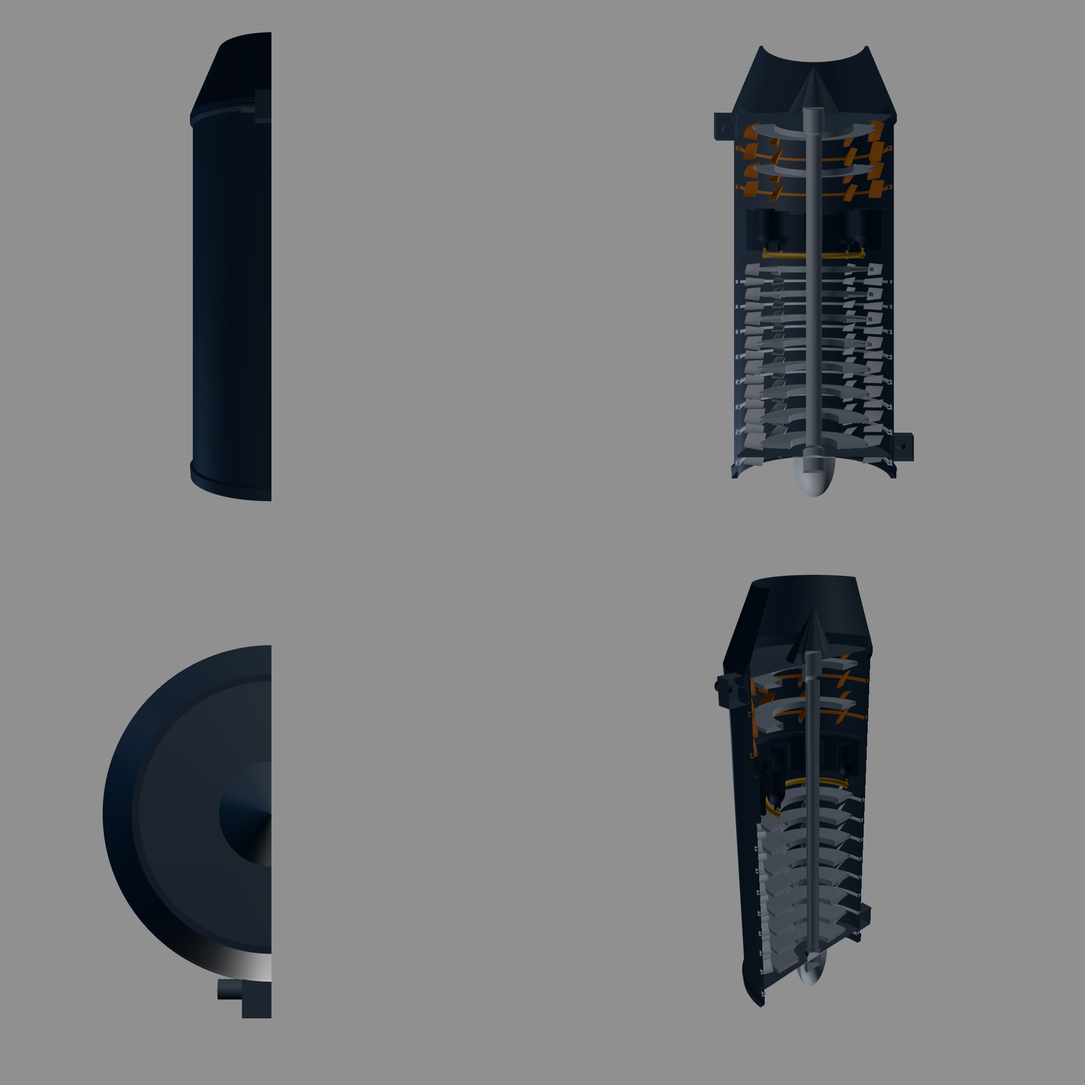
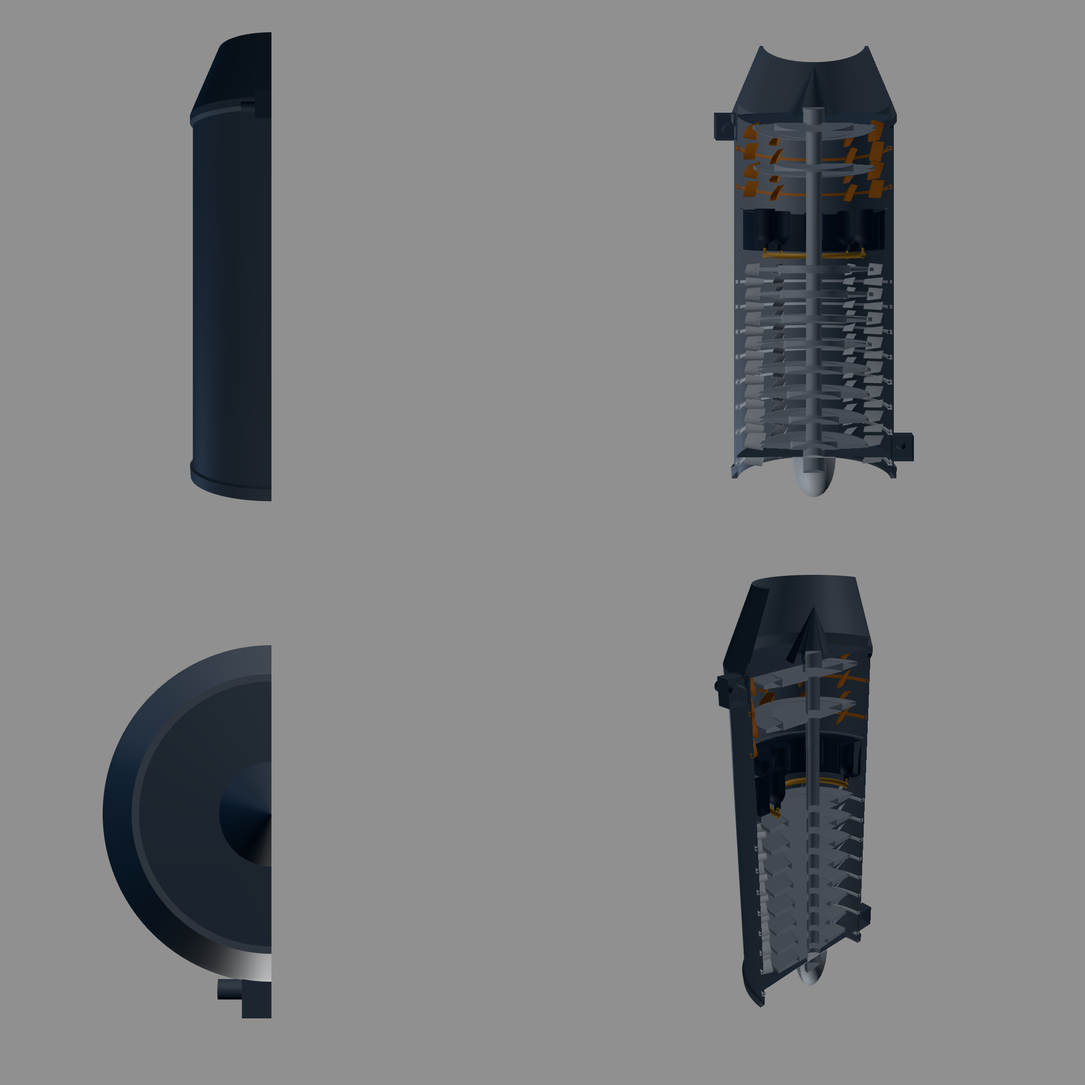
fix(examples): connect the turbojet mechanism; refresh evidence
Mechanism-truth criterion 7 flagged 30 joint-mesh gaps: discs floated on the
plain shaft and the combustor internals were 5-47 mm off the casing. Adds a
stepped display drum (collars line-to-line with each disc bore, chosen over a
2 mm embed to stay inside the 20 mm3 clash cap), re-parents the blade,
combustor and mount mates onto the bodies they actually seat in, and grows
the combustor radii into a touching chain. validate --include-interference is
now clean (42 parts, 41 joints, mechanism real, 0 failures, interference 0
pairs). Cutaway/section renders refreshed; hero is unchanged (exterior).

diff --git a/examples/gallery/turbojet-engine.kcad.ts b/examples/gallery/turbojet-engine.kcad.ts
@@ -276,24 +276,44 @@ const lowerHalf = casingShell.subtract(casingCutLower);   // keeps y < 0
 const upperHalf = casingShell.subtract(casingCutUpper);   // keeps y > 0
 const casingHalves = [lowerHalf, upperHalf];
 
-// Shaft: Ø44 main journal, Ø60 lands at the two bearing stations. Display
-// simplification: the compressor disc bores are r65..r100 (Task 9), so the
-// main journal passes each disc with 43..78 mm of radial clearance instead of
-// a spacer drum; the lands are the only shaft contact with the static
-// structure (≈1 mm radial play in the bearing bores).
+// Stepped spool drum: Ø44 main journal + Ø60 lands at the two bearing
+// stations, with a collar under every rotor disc. Each collar is sized
+// line-to-line with its disc bore (compressor r65..r100 from the Task 9
+// table, turbine r110 from Task 11) and spans the 18 mm web with 2 mm of
+// margin each side, so each disc rides on shaft material instead of the
+// journal passing it in open air. A literal 2 mm radial shrink fit would
+// share ≈15,000-25,000 mm³ with each disc (ten pairs over the 20 mm³ clash
+// cap); the display fit is line-to-line — zero clearance and zero shared
+// volume — which still registers as material contact in the joint-mesh
+// probe. The collars stay well inside the r150 stator vane tips and leave
+// the nose-cone/exhaust-cone interfaces unchanged.
 const SHAFT_MAIN_R = 22;         // Ø44 main journal
 const SHAFT_LAND_R = 30;         // Ø60 bearing lands
 const SHAFT_FRONT_Z = -545;      // nose end, buried in the spinner
 const SHAFT_REAR_Z = 470;        // rear end, inside the casing aft bore
-const SHAFT_STEP_T = 8;          // land-to-journal axial blend
 const SHAFT_FRONT_LAND_Z = -482; // front land ends at the R1 disc front face
-const SHAFT_REAR_LAND_Z = 404;   // rear land starts aft of the T2 disc hub (Task 11)
-const shaftShape = path()
+const SHAFT_REAR_LAND_Z = 426;   // rear land starts at the T2 collar aft shoulder
+const DRUM_COLLAR_T = 22;        // collar axial length: 18 mm web + 2 mm margin each side
+const drumCollars: Array<{ z: number; r: number }> = [
+  ...rotorStages.map((stage) => ({ z: stage.z, r: stage.hubR })),
+  { z: 303, r: 110 },            // T1 disc bore (Task 11 table)
+  { z: 415, r: 110 },            // T2 disc bore (Task 11 table)
+];
+let shaftPen = path()
   .moveTo(0, SHAFT_FRONT_Z)
   .lineTo(SHAFT_LAND_R, SHAFT_FRONT_Z)
   .lineTo(SHAFT_LAND_R, SHAFT_FRONT_LAND_Z)
-  .lineTo(SHAFT_MAIN_R, SHAFT_FRONT_LAND_Z + SHAFT_STEP_T)
-  .lineTo(SHAFT_MAIN_R, SHAFT_REAR_LAND_Z - SHAFT_STEP_T)
+  .lineTo(SHAFT_MAIN_R, SHAFT_FRONT_LAND_Z);
+for (const collar of drumCollars) {
+  const z0 = collar.z - DRUM_COLLAR_T / 2;
+  const z1 = collar.z + DRUM_COLLAR_T / 2;
+  shaftPen = shaftPen
+    .lineTo(SHAFT_MAIN_R, z0)
+    .lineTo(collar.r, z0)
+    .lineTo(collar.r, z1)
+    .lineTo(SHAFT_MAIN_R, z1);
+}
+const shaftShape = shaftPen
   .lineTo(SHAFT_LAND_R, SHAFT_REAR_LAND_Z)
   .lineTo(SHAFT_LAND_R, SHAFT_REAR_Z)
   .lineTo(0, SHAFT_REAR_Z)
@@ -454,16 +474,29 @@ for (const stage of hotTurbineStages) {
 }
 
 // Can-annular combustor, all inside the 211 barrel bore: outer casing shell,
-// liner shell, then 8 cans on a 136 mm circle inside the liner (Ø56 body ->
-// 164 mm outer edge, 14 mm clear of the 178 liner bore and 48 mm apart
-// tangentially). The cans sit forward of the NGV1 vane leading edge (226.2)
-// and aft of the R8 blade trailing edge (~38 at these radii).
-const COMBUSTOR_CASING_BORE_R = 196;   // 15 mm inside the barrel bore
-const COMBUSTOR_CASING_R = 206;        // 10 mm wall; 5 mm to the barrel bore
+// liner shell, then 8 cans on a 136 mm circle inside the liner. The shells
+// form a line-to-line touching chain — outer casing outer = the 211 barrel
+// bore, liner outer = the 196 outer casing bore, can outer edge
+// (136 + 28 = 164) = the liner bore — so every combustor mate partner is
+// material-connected. (A 1 mm radial embed would share 100,000+ mm³ with the
+// barrel; the display fit is zero-clearance, zero shared volume.) The cans
+// still sit forward of the NGV1 vane leading edge (226.2) and aft of the R8
+// blade trailing edge (~38 at these radii).
+const CAN_COUNT = 8;
+const CANS_R = 136;                // can centreline radius
+const CAN_BODY_R = 28;             // Ø56 body: 108..164 radial
+const CAN_BODY_FRONT_Z = 118;
+const CAN_BODY_AFT_Z = 188;
+const CAN_SNOUT_R = 10;
+const CAN_SNOUT_FRONT_Z = 75;
+const CAN_SNOUT_AFT_Z = 95;        // 5 mm buried in the dome
+
+const COMBUSTOR_CASING_BORE_R = 196;   // outer casing bore = liner outer (line-to-line)
+const COMBUSTOR_CASING_R = CASING_BORE_R; // 211: outer touches the barrel bore
 const COMBUSTOR_CASING_FRONT_Z = 58;
 const COMBUSTOR_CASING_AFT_Z = 190;    // 36.2 mm forward of the NGV1 vane LE
-const COMBUSTOR_LINER_BORE_R = 178;
-const COMBUSTOR_LINER_R = 188;         // 10 mm wall; 8 mm to the casing bore
+const COMBUSTOR_LINER_BORE_R = CANS_R + CAN_BODY_R; // 164 = can outer edge
+const COMBUSTOR_LINER_R = COMBUSTOR_CASING_BORE_R;  // 196: liner outer touches the casing bore
 const COMBUSTOR_LINER_FRONT_Z = 75;
 const COMBUSTOR_LINER_AFT_Z = 186;
 function shell(boreR: number, outR: number, zFront: number, zAft: number) {
@@ -480,15 +513,6 @@ const combustorLiner = shell(
   COMBUSTOR_LINER_BORE_R, COMBUSTOR_LINER_R,
   COMBUSTOR_LINER_FRONT_Z, COMBUSTOR_LINER_AFT_Z,
 ).color(COLOR_COMBUSTOR);
-
-const CAN_COUNT = 8;
-const CANS_R = 136;                // can centreline radius
-const CAN_BODY_R = 28;             // Ø56 body: 108..164 radial, 14 mm to the liner bore
-const CAN_BODY_FRONT_Z = 118;
-const CAN_BODY_AFT_Z = 188;
-const CAN_SNOUT_R = 10;
-const CAN_SNOUT_FRONT_Z = 75;
-const CAN_SNOUT_AFT_Z = 95;        // 5 mm buried in the dome
 const canBody = cylinder(CAN_BODY_AFT_Z - CAN_BODY_FRONT_Z, CAN_BODY_R)
   .translate(CANS_R, 0, CAN_BODY_FRONT_Z).color(COLOR_COMBUSTOR);
 const canDome = sphere(CAN_BODY_R)
@@ -577,7 +601,7 @@ const engine = assembly('kernelCAD v0.17 turbojet');
 // connectors sit at the shared world origin — the fastened zero pose is the
 // authored pose.
 function frameConnector(origin: [number, number, number]) {
-  return { type: 'frame', origin: { kind: 'vec3', value: origin } };
+  return { type: 'frame' as const, origin: { kind: 'vec3' as const, value: origin } };
 }
 let fastenSeq = 0;
 type PartRef = ReturnType<typeof engine.part>;
@@ -601,7 +625,7 @@ const [bearingFront, bearingRear] = bearingHousings;
 
 // Ground: lower casing half + its half of the convergent nozzle.
 const ground = engine.part('casing-lower-half', casingLower.union(nozzleLower));
-fixed(ground, 'casing-upper-half', casingUpper.union(nozzleUpper));
+const casingUpperPart = fixed(ground, 'casing-upper-half', casingUpper.union(nozzleUpper));
 
 // Merged static vane units: `row.union(band)` keeps the row as the boolean
 // base, so lookupSourceColor resolves the part to the row's color — alloy for
@@ -617,16 +641,21 @@ for (let i = 1; i < statorRings.length; i++) {
 fixed(ground, 'ngv-1', ngvRows[0].union(ngvBands[0]));
 fixed(ground, 'ngv-2', ngvRows[1].union(ngvBands[1]));
 
-// Remaining static parts, all fastened to the ground half.
+// Remaining static parts, fastened to the half/neighbour they actually
+// touch. Task 10 staging array mounts = [front crown (+y), rear crown (-y)]:
+// the front mount embeds in the upper half's barrel, so it hangs off
+// casing-upper-half, not the ground lower half.
 fixed(ground, 'bearing-front', bearingFront);
 fixed(ground, 'bearing-rear', bearingRear.union(exhaustCone)); // Task 12 merge 2
-// Task 10 staging array mounts = [front crown (+y), rear crown (-y)].
-fixed(ground, 'mount-front', mounts[0]);
+fixed(casingUpperPart, 'mount-front', mounts[0]);
 fixed(ground, 'mount-rear', mounts[1]);
-fixed(ground, 'combustor-outer', combustorOuterCasing);
-fixed(ground, 'combustor-liner', combustorLiner);
-fixed(ground, 'combustor-cans', combustorCans);
-fixed(ground, 'fuel-manifold', fuelManifold);
+// Combustor chain: outer casing rides the barrel bore, liner rides the outer
+// casing bore, cans ride the liner bore, manifold is buried in the can
+// snouts — each mate partner is material-connected (line-to-line contacts).
+const combustorOuterPart = fixed(ground, 'combustor-outer', combustorOuterCasing);
+const combustorLinerPart = fixed(combustorOuterPart, 'combustor-liner', combustorLiner);
+const combustorCansPart = fixed(combustorLinerPart, 'combustor-cans', combustorCans);
+fixed(combustorCansPart, 'fuel-manifold', fuelManifold);
 
 // The single revolute: casing lower half <-> shaft on the engine axis (world
 // origin, +Z). `concealed` because the spool bearing lives inside the
@@ -647,16 +676,18 @@ engine.mate('spool', 'casing-lower-half.spool-axis', 'shaft.spool-axis', 'revolu
   exposure: 'concealed',
 });
 
-// Rotor stack, all fastened to the shaft.
+// Rotor stack. Discs are fastened to the shaft (each rides its drum collar);
+// blade rows are fastened to the disc they root into, not to the shaft —
+// the root embed is the real joint, and the shaft never reaches blade radii.
 fixed(shaft, 'nose-cone', noseCone);
 for (let i = 0; i < rotorDiscs.length; i++) {
-  fixed(shaft, `compressor-disc-${i + 1}`, rotorDiscs[i]);
-  fixed(shaft, `compressor-blades-${i + 1}`, rotorRows[i]);
+  const discPart = fixed(shaft, `compressor-disc-${i + 1}`, rotorDiscs[i]);
+  fixed(discPart, `compressor-blades-${i + 1}`, rotorRows[i]);
 }
-fixed(shaft, 'turbine-disc-1', turbineDiscs[0]);
-fixed(shaft, 'turbine-disc-2', turbineDiscs[1]);
-fixed(shaft, 'turbine-blade-1', turbineRows[0]);
-fixed(shaft, 'turbine-blade-2', turbineRows[1]);
+const turbineDisc1 = fixed(shaft, 'turbine-disc-1', turbineDiscs[0]);
+const turbineDisc2 = fixed(shaft, 'turbine-disc-2', turbineDiscs[1]);
+fixed(turbineDisc1, 'turbine-blade-1', turbineRows[0]);
+fixed(turbineDisc2, 'turbine-blade-2', turbineRows[1]);
 
 // Intended contacts (the Task 13 table): design-intent embeds whose shared
 // volume exceeds the 20 mm^3 clash cap. `ignore` silences only the validator
@@ -668,6 +699,9 @@ fixed(shaft, 'turbine-blade-2', turbineRows[1]);
 //   - rotor blade roots embed 2 mm into their disc rims;
 //   - the spinner base swallows the shaft nose;
 //   - injector lines bury 5 mm into the can snouts.
+// The stepped-drum/disc and combustor-chain contacts are line-to-line (zero
+// shared volume), so they need no ignore entry and stay visible to the raw
+// detector.
 const casingBoreParts = [...statorUnitNames, 'ngv-1', 'ngv-2', 'bearing-front', 'bearing-rear'];
 const intendedContacts: Array<readonly [string, string]> = [
   ...casingBoreParts.flatMap((name): Array<readonly [string, string]> => [

diff --git a/examples/gallery/turbojet-engine/README.md b/examples/gallery/turbojet-engine/README.md
@@ -20,20 +20,27 @@ node dist/cli/index.js evaluate examples/gallery/turbojet-engine.kcad.ts
 node dist/cli/index.js validate examples/gallery/turbojet-engine.kcad.ts
 node dist/cli/index.js interference examples/gallery/turbojet-engine.kcad.ts --epsilon 20
 
+# Typecheck the model scripts (wrapper typechecker — gap #8)
+npm run typecheck:examples        # gates the v0.17 files
+npm run typecheck:examples:all    # full examples tree; legacy backlog is non-zero (gap #8)
+
 # Renders (need a studio dev server on 127.0.0.1:5173: `npm run dev`)
 node dist/cli/index.js render examples/gallery/turbojet-engine.kcad.ts -o hero.png --no-watermark
 node dist/cli/index.js render examples/gallery/turbojet-engine.kcad.ts --hide casing-upper-half -o cutaway.png --no-watermark
 node dist/cli/index.js render examples/gallery/turbojet-engine.kcad.ts --section x=0 -o section.png --no-watermark
 
-# Exports (8 GB heap: the default 2 GB OOMs)
-NODE_OPTIONS=--max-old-space-size=8192 node dist/cli/index.js parts examples/gallery/turbojet-engine.kcad.ts --json
-NODE_OPTIONS=--max-old-space-size=8192 node dist/cli/index.js export step examples/gallery/turbojet-engine.kcad.ts -o turbojet.step
-NODE_OPTIONS=--max-old-space-size=8192 node dist/cli/index.js export stl  examples/gallery/turbojet-engine.kcad.ts -o turbojet.stl
-NODE_OPTIONS=--max-old-space-size=8192 node dist/cli/index.js export glb  examples/gallery/turbojet-engine.kcad.ts -o turbojet.glb
+# Exports (mesh-heavy commands re-exec with an 8 GB heap automatically when
+# the default heap is too small; no NODE_OPTIONS needed — gap #11)
+node dist/cli/index.js parts examples/gallery/turbojet-engine.kcad.ts --json
+node dist/cli/index.js export step examples/gallery/turbojet-engine.kcad.ts -o turbojet.step
+node dist/cli/index.js export stl  examples/gallery/turbojet-engine.kcad.ts -o turbojet.stl
+node dist/cli/index.js export glb  examples/gallery/turbojet-engine.kcad.ts -o turbojet.glb
 ```
 
 The `inspect`, `cutaway`, `section` renders in this directory are the visual
-evidence for the v0.17 release notes.
+evidence for the v0.17 release notes, but they predate the mechanism fix
+(shaft drum + combustor chain) and need a re-capture — see the post-merge
+status below.
 
 ## Envelope and scale
 
@@ -45,7 +52,7 @@ evidence for the v0.17 release notes.
 | Mount trunnions | y ±277 (beyond the flange envelope, as on a real engine) |
 | Casing barrel | bore r211, outer r222, wall taper to r213 at the inlet lip |
 | Part count | **42** (mechanism budget `(1+3+3) × 42 = 294 ≤ 300`) |
-| Joints | one `revolute` (spool, axis +Z, ±180°), 41 `fastened` mates |
+| Joints | one `revolute` (spool, axis +Z, ±180°), 40 `fastened` mates (41 joints) |
 
 ## Stage table (locked with Task 7 evidence)
 
@@ -82,8 +89,14 @@ vanes). Rotor tips stop at r205, leaving 6 mm to the r211 casing bore.
    by the solved pose; the shipped default is the static exhibit pose.
 4. **Hand-modeled bearings**, not vendor parts: annular housings with 1 mm
    radial play on Ø60 shaft lands. Catalog bearings are a future improvement.
-5. **No spacer drum**: the Ø44 main journal passes the r65–r100 disc bores
-   with 43–78 mm radial clearance (a display simplification over a real spool).
+5. **Stepped display drum, line-to-line fit**: every rotor disc bore
+   (compressor r65–r100, turbine r110) rides a shaft collar that spans the
+   18 mm web with 2 mm margin each side, so the spool has material contact
+   instead of the journal passing the discs in open air. The collars are
+   sized line-to-line with the bores: a literal 2 mm radial shrink fit would
+   share ≈15,000–25,000 mm³ with each disc and add ten pairs over the 20 mm³
+   clash cap, so the display fit is zero-clearance / zero-shared-volume
+   (gap #23).
 6. **Three merges to fit the 42-part budget**: each casing half includes its
    half of the convergent nozzle (both casing color); the exhaust cone is
    merged into the rear bearing housing (both dark steel); each stator band and
@@ -105,6 +118,10 @@ contacts are design intent and are listed here with their reason:
 | shaft × nose-cone | 1 | spinner base swallows the shaft nose |
 | combustor-cans × fuel-manifold | 1 | injector lines bury 5 mm into the can snouts |
 
+The mechanism fix added line-to-line contacts (drum collars ↔ disc bores,
+combustor chain ↔ casing barrel). They share zero volume, so the ignore list
+stays at 38 pairs and the raw detector still sees them (gap #23).
+
 `interference --epsilon 20` (with these pairs `--ignore`d) reports
 **0 interfering pairs across 99 bbox-pruned comparisons**.
 
@@ -112,10 +129,11 @@ contacts are design intent and are listed here with their reason:
 
 | Gate | Result |
 |---|---|
-| `evaluate` (final assembly) | 276 features, `OK`, **587 s** (passes at 237–393 s on a lighter machine load) |
-| `validate` | clean, 42 parts (mate-vocabulary assemblies report 0 joints — see gap log) |
-| `interference --epsilon 20` | 0 pairs / 99 comparisons |
-| `parts --json` (8 GB heap) | 42 parts, **2,916,402 triangles** total; largest: compressor-blades-8 171,564 |
+| `evaluate` (final assembly) | 276 features, `OK`, **587 s** (passes at 237–393 s on a lighter machine load; 198 s after the mechanism fix) |
+| `validate` | clean, 42 parts, 41 joints, 0 diagnostics (gap #12) |
+| `validate --include-interference --no-include-physics` | mechanism **real**, 0 `mechanism.joint-mesh-gap` failures, 0 interference pairs, 0 diagnostics (gap #23) |
+| `interference --epsilon 20` (38 intended contacts ignored) | 0 pairs / 99 comparisons |
+| `parts --json` (CLI auto-bumps to 8 GB heap) | 42 parts, **2,916,402 triangles** total; largest: compressor-blades-8 171,564 |
 | `export step` | 11.2 MB, 173 s |
 | `export stl` (watertight verify on) | 78.4 MB, 3625 s, peak RSS 6.3 GB |
 | `export glb` | 66.0 MB, 333 s |
@@ -153,10 +171,22 @@ tree: **#5** variableSweep intermediate stations (spine subdivision; t is the
 normalized curve parameter), **#6** spline-only revolve profiles, **#17**
 loft null tolerance, **#18** `twistAngle` on rect/circle/polygon/rounded-rect
 extrudes, **#19** rail-loft NURBS section `origin`, **#22** non-finite
-rotation guard. Remaining deferred entries are environmental/scale limits
-(render-inspect, validate-interference, heap, local imports, tsconfig
-coverage, jointCount display, lighting, spline pen contract). The demo capture
-is complete (cutaway, see the Demo section above).
+rotation guard. The two scale limits (**#9** render-inspect, **#10**
+validate-interference) were then made tractable on the merged tree: the
+`validate` interference path now lowers once, honors the model's `ignore`
+list, and re-poses one lowered scene across the mechanism sweep; `render
+inspect` gained `--views` batching and a capped mask render. Remaining
+deferred entries are local imports, the legacy-example typecheck backlog
+behind gap #8, jointCount display, lighting, and the spline pen contract. The
+mechanism-truth gap that remained after #10 — the display model's floating
+disc/combustor mates tripping
+`mechanism.joint-mesh-gap` — is closed by the stepped drum and touching
+combustor chain (gap #23): `validate --include-interference
+--no-include-physics` now reports mechanism `real` with 0 failures and 0
+interference pairs. The demo capture is complete (cutaway, see the Demo
+section above), but **the renders and the demo predate the mechanism fix and
+need a re-capture** (the shaft drum and combustor chain changed the
+geometry); the controller handles that refresh.
 
 ## Gap log
 
@@ -171,14 +201,14 @@ reproduction and disposition. "Fixed" means the v0.17 diff on this branch.
 | 4 | Skill docs advertised `{ normal, origin }` for loft planes | read `kernelcad-nurbs` SKILL.md pre-v0.17 | docs drifted from the shipped API | **Fixed** (Task 5): docs + `listApi` + cheat sheet |
 | 5 | `variableSweep` >2 stations unsupported | `variableSweep` with 3 stations → error | only t=0/t=1 are lowered | **Fixed** (post-v0.17 working tree): the lowerer subdivides the spine at each intermediate station (`BRep_Tool.Curve_2` → `BRepBuilderAPI_MakeEdge_29` sub-edges with shared vertices → `BRepBuilderAPI_MakeWire`), then anchors the profile at the matched station vertex; a 3-station sweep builds. Coverage: `tests/unit/backends/occt/variableSweepLowerer.test.ts` (3/4-station bbox + validation) and `tests/integration/variableSweepEndToEnd.test.ts` (engine path) |
 | 6 | `revolve` rejects spline-only profiles | revolve a closed `spline`-only path → `feature.invalid-args` "no line/arc segments" | revolve lowerer counted only lineTo/tangentArc segments | **Fixed** (post-v0.17 working tree): all segment kinds accepted; axis check covers spline/NURBS/hermite points; tests in `tests/unit/backends/occt/revolveSplineProfile.test.ts` |
-| 7 | `.kcad.ts` scripts cannot import local TS modules | `import { K } from './lib.ts'` in a script → `ReferenceError: K is not defined` | imports are stripped before execution | **Deferred**: scratch/test reuse requires inline copies; caused duplicate helper code in `/tmp` probes |
-| 8 | No tsconfig project covers `examples/**/*.kcad.ts` | `tsc --noEmit -p tsconfig.app.json --listFilesOnly` shows 0 example files | examples are outside every project | **Deferred**: examples get eslint + runtime only |
-| 9 | `render inspect` impractical at 42 parts | `render inspect … --channels rgb,mask,depth,normals` ran >90 min, wrote no manifest; RGB-only >60 min | per-part/per-channel frame explosion | **Deferred**: use plain multi-view renders + `--hide`/`--section` |
-| 10 | `validate --include-interference` impractical at 42 parts | ran >30 min with no output | exact BREP pair probing without bbox pruning in that path | **Deferred**: use the dedicated `interference` command (99 bbox-pruned comparisons, seconds of probing after evaluate) |
-| 11 | `parts`/STL/GLB OOM at the default heap | `parts --json` aborts (SIGABRT) at ~2 GB | meshing the full assembly exceeds 2 GB | **Documented**: run exports with `NODE_OPTIONS=--max-old-space-size=8192` (STL peaks 6.3 GB) |
-| 12 | `validate` reports 0 joints for mate-vocabulary assemblies | `validate` on any `engine.mate()` assembly | `jointCount` counts v0.5 `assemblyJoint` records only (`src/modeling/mates/validator.ts:337-358`) | **Deferred** (display): connectivity is still validated via the mate graph; verified with a pose probe (spin 90° moves the rotor) |
+| 7 | `.kcad.ts` scripts cannot import local TS modules | `import { K } from './lib.ts'` in a script → `ReferenceError: K is not defined` | imports are stripped before execution | **Improved** (post-merge working tree): execution now refuses top-level `import`/`require` before the normalizer strips them and raises a structured `feature.invalid-args` diagnostic ("local imports are not supported in .kcad.ts — define helpers in the same file (imports are stripped before execution)") instead of the mid-evaluation `ReferenceError`; loud diagnostic, import support still deferred (helpers must be inlined). Coverage: `tests/unit/cli/localImportDiagnostic.test.ts` |
+| 8 | No tsconfig project covers `examples/**/*.kcad.ts` | `tsc --noEmit -p tsconfig.app.json --listFilesOnly` shows 0 example files | examples are outside every project | **Improved** (post-merge working tree): `.kcad.ts` files are function bodies, not modules, so no tsconfig `include` can check them. `scripts/typecheckExamples.ts` generates a temp wrapper per file — a preamble declaring every runtime global (`KernelCadApi` member types parsed from `src/modeling/api.ts`, the browser worker's shim-only globals as documented `any`, and the common type aliases like `Editable`/`Shape`) around the source in an async IIFE — then runs one `tsc --noEmit` over the batch. `npm run typecheck:examples` gates the v0.17 files (`turbojet-engine.kcad.ts`, `twisted-blade.kcad.ts`) at **0 errors** (fixed two real `frameConnector` literal-widening errors in the turbojet script); `npm run typecheck:examples:all` reports the broader backlog: **304 pre-existing errors in 24 of 109 legacy files**, led by `watch-from-screenshot-agent-loop-v2.kcad.ts` (75), `robot-hand/workflow-candidates-comparison.kcad.ts` (45), `pocket-watch/build.kcad.ts` (41), `pocket-watch-v2/build.kcad.ts` (36), `meta-glasses.kcad.ts` (16), `ratchet-stool.kcad.ts` (15) — mostly TS7006 untyped params (186) and stale API members such as `Assembly.fixed` (TS2339, 56); legacy files are intentionally not "fixed" by this change. Drift sentinel: `tests/unit/scripts/typecheckExamplesGlobals.test.ts` parses the worker's injected globals and fails if the wrapper stops declaring any of them |
+| 9 | `render inspect` impractical at 42 parts | `render inspect … --channels rgb,mask,depth,normals` ran >90 min, wrote no manifest; RGB-only >60 min | per-view/per-channel frame explosion at full 1920×1080, plus the same mechanism-probe sweep as #10 | **Improved** (post-merge working tree): `render inspect` gained `--views <list>` (`front,right,top,iso`; default all four) so a bundle can be captured in view batches, and the mask channel renders through a capped offscreen render target (`MASK_CAPTURE_MAX_SIZE = 1024` longest edge, aspect preserved, sRGB output so `#00000n` object-id bytes survive) that the CLI nearest-upscales to the requested tile. RGB/depth/normals semantics unchanged; `captureMaskPng()` with no argument keeps the full-canvas path for Studio. Measured: `render inspect … --views iso --channels rgb,mask` → **7:16** (exit 0) and `--views iso --channels rgb,mask,depth,normals` → **7:21** (exit 0); manifest + all four `channels/<channel>/iso.png` written (rgb 99 KB, mask 14.5 KB / 242 k non-black px with exact object-id bytes, depth 427 KB, normals 92 KB; depth/normals add ≈5 s). Remaining: the mechanism-truth probe (one full model build + one sweep lower, ≈5 min after gap #10) and the 2.9 M-triangle Node meshing dominate the run; masks only show camera-visible surfaces (interior parts are occluded by the casing, as in RGB), and multi-view bundles still pay per view |
+| 10 | `validate --include-interference` impractical at 42 parts | ran >30 min with no output | each BREP criterion re-lowered the whole assembly per pose sample, and criterion 1 lowered each fastened part via `Shape.lower()` — which re-runs the ENTIRE record chain — so the 42-part assembly paid ~O(parts) full lowers | **Fixed** (post-merge working tree): `detectInterferences` now exposes the AABB candidate pass (`collectInterferenceCandidates`; disjoint bboxes are never probed, symmetric `ignore` applied before the bbox test) and `validate` executes the script once, lowers once, reuses the session for the mechanism probe, and honors the model's `solvedModel({ ignore })` list symmetrically; the mechanism-truth sweep lowers one rest scene (also the source of criterion-1 bbox corners) and re-poses it per sample via `reposedLoweredAssemblyScene`. Measured: `validate … --include-interference --no-include-physics` → **5:04** (was >30 min), 42 parts / 41 joints, 0 validator diagnostics, 0 `assembly.interference.overlap` errors (all 38 intended contacts silenced by the model's `solvedModel({ ignore })` list; the dedicated `interference` command still reports them unless `--ignore` is passed), mechanism `broken` with 30 `mechanism.joint-mesh-gap` errors (closed by gap #23). Those come from the display model, not the detector: `fixed()` anchors every fastener connector at the child's local origin, which is in open space for 25 of the 41 fixed mates (model-authoring follow-up; interference/ignore semantics are unchanged). Coverage: `tests/unit/runtime/detectInterferences.test.ts` (disjoint → 0 probes, near-touching → probed, ignore honored), `mechanismTruth.test.ts` case 5b (symmetric `ignore` on a genuine overlap) |
+| 11 | `parts`/STL/GLB OOM at the default heap | `parts --json` aborts (SIGABRT) at ~2 GB | meshing the full assembly exceeds 2 GB | **Fixed** (post-merge working tree): the CLI entry (`src/agent/cli/index.ts`) re-execs mesh-heavy commands (`export`, `parts`, `render`, `animate`, `inspect`, `dfm`, `interference`) once with `--max-old-space-size=8192` when the V8 heap limit is too small and no explicit `--max-old-space-size` is present in `NODE_OPTIONS`/`execArgv`; `KCAD_HEAP_REEXEC=1` guards against re-exec loops and fast commands keep the default heap. Coverage: `tests/unit/cli/heapReexec.test.ts`; evidence: turbojet `parts --json` without `NODE_OPTIONS` → 42 parts, exit 0 |
+| 12 | `validate` reports 0 joints for mate-vocabulary assemblies | `validate` on any `engine.mate()` assembly | `jointCount` counts v0.5 `assemblyJoint` records only (`collectJoints` in `src/modeling/mates/validator.ts`) | **Fixed** (post-merge working tree): `collectJoints` folds v0.6 mate-graph edges from `solvedAssembly`/`assemblyModel` metadata `mates` (name + type carried) into `jointCount`, deduped by name against v0.5 `assemblyJoint` records; floating/orphan/interference diagnostics unchanged. Coverage: `tests/unit/mates/validateAssemblyMateAwareness.test.ts` (mate-count + cross-vocabulary no-double-count cases) |
 | 13 | Hot-section rows interfered at intermediate spool phases | phase sweep at the Task 8 z stations (250/300/340/380): ngv1↔t1 1.148 mm (26°), ngv2↔t2 0.000 mm interfering (28–32°) | rotating a blade between two vanes closes the tangential gap; chords ≈ z pitch | **Fixed in model** (Task 11): axial separation `z_B − z_A ≥ halfA + halfB + 1.5`, `half=(chord/2)cos(stagger)` → stations 250/303/358/415, measured 2.220/2.431/2.161 mm phase-invariant; compressor interfaces min 4.558 mm |
-| 14 | `--environment studio` render exits 1 | `render … --environment studio` after ~11 min → exit 1 | preset unavailable/failed in this environment | **Deferred**: default three-light rig is used for the shipped renders |
+| 14 | `--environment studio` render exits 1 | `render … --environment studio` after ~11 min → exit 1 | the CLI awaited `setRenderEnvironment` unbounded, so any HDRI load failure/timeout rejected the whole render (a 404 reproduces it) | **Fixed** (post-merge working tree): `applyRenderEnvironmentWithFallback` in `src/agent/render/headlessRender.ts` bounds the apply (30 s page budget + 10 s response slack), prints a stderr warning naming the environment and the reason, resets the scene to the default three-light rig and continues (exit 0); a timed-out apply that lands late is undone so it cannot leak into the fallback capture. Coverage: `tests/unit/render/renderEnvironmentFallback.test.ts` |
 | 15 | Exterior render reads dark | full-engine RGB render with casing `#565d67`, later `#7b838d` | curved surfaces fall in shade under the default rig | **Style note**: use the cutaway/section for hero reads; beauty lighting is a future pass |
 | 16 | `path().spline` requires the first point to exactly repeat the pen position | spinner ogive spline without a duplicated tip point → `feature.path.spline.degenerate-points` | spline chaining contract | **Documented** (Task 10): duplicate the tip point; ergonomics minor |
 | 17 | `Sketch.loft` crashes on `opts = null` while `Sketch.extrude` tolerates it | `loft(others, null)` | inconsistent null handling | **Fixed** (pre-commit review): capture does `opts ??= {}` like extrude; regression test in `tests/unit/capture/loftTwistOptions.test.ts` |
@@ -187,3 +217,4 @@ reproduction and disposition. "Fixed" means the v0.17 diff on this branch.
 | 20 | Duplicate allowed-keys guard loops (loft vs extrude) | read `src/modeling/capture/sketch.ts` | two hand-rolled guards grew independently | **Deferred** (cosmetic) |
 | 21 | One kernel test flaked under parallel load | first `vitest run` (parallel) failed 1/513; `--no-file-parallelism` clean | known load-sensitive capture suite | **Workaround documented**: run the sweep serialized |
 | 22 | `buildNurbsSketchOnPlane` silently ignored non-finite `rotationDeg` | NURBS section with `rotationDeg: NaN` → section placed unrotated | truthiness check skipped `NaN` and fed non-finite values into `rotateSketchCommands` | **Fixed** (pre-commit review): now throws; test in `tests/unit/backends/occt/loftSectionRotation.test.ts` |
+| 23 | `mechanism.joint-mesh-gap` on 15 fixed mates (30 rows) | `validate … --include-interference --no-include-physics` → mechanism `broken` with 30 `joint-mesh-gap` errors: `mount-front`, `combustor-outer/liner/cans/fuel-manifold`, 8 compressor discs, 2 turbine discs, 8 compressor blade rows, 2 turbine blade rows | criterion 7 requires each mate's two bodies to be material-connected within 1 mm, but the Ø44/Ø60 shaft passed the r65–r110 disc bores in open air (43–78 mm), the combustor shells were 5–23 mm inside `casing-lower-half`, and the blade rows were fastened to the shaft although they only touch their discs | **Fixed in model**: (a) stepped spool drum — a collar line-to-line with each disc bore (compressor r65–r100, turbine r110) spanning the 18 mm web + 2 mm margin each side, so the joint-mesh gap and the shared volume are both 0; (b) combustor re-wired into a touching chain (`casing-lower-half` → outer casing → liner → cans → fuel-manifold) with outer casing outer = 211 barrel bore, liner outer = 196 outer-casing bore, liner bore = 164 can outer edge; (c) `mount-front` fastened to `casing-upper-half` (the half its plate embeds in); (d) blade rows fastened to their discs (the 2 mm root embed is the real joint). A literal 2 mm drum shrink fit was rejected: it shares ≈15,000–25,000 mm³ per disc and would add ten pairs over the 20 mm³ cap, breaking the "existing 38 ignores stay 0 pairs" gate. Measured: mechanism `real`, 0 failures, 0 diagnostics; `interference --epsilon 20` with the same 38 ignores → 0 pairs / 99 comparisons; `evaluate` 276 features `OK` |
